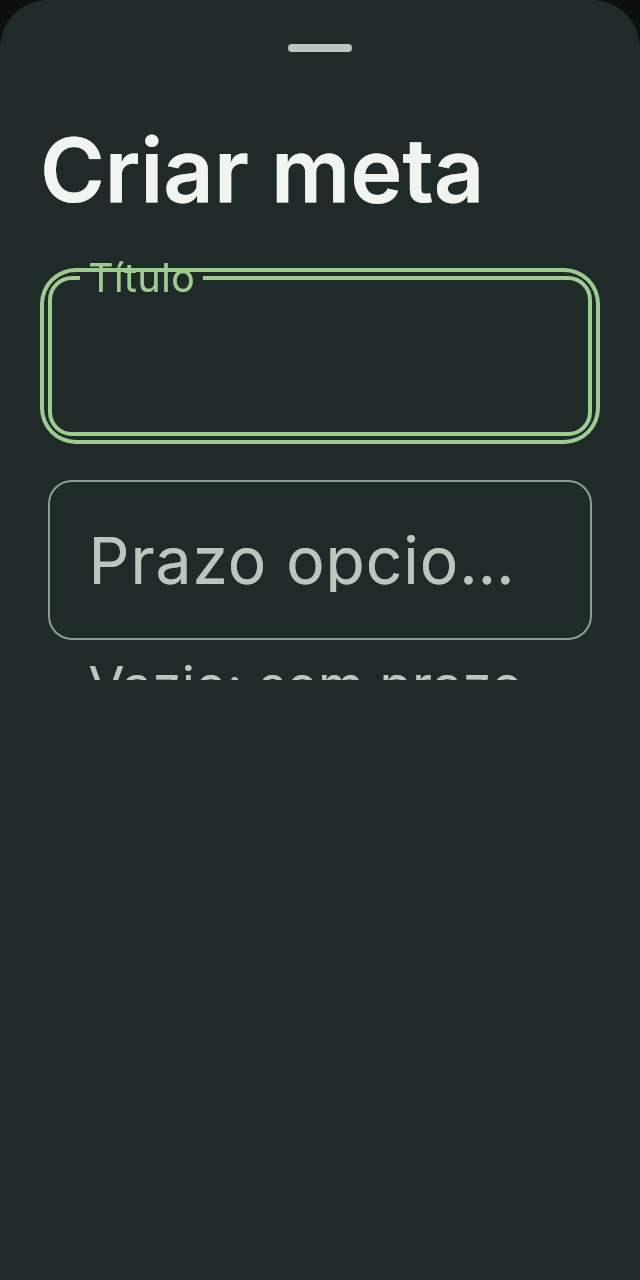
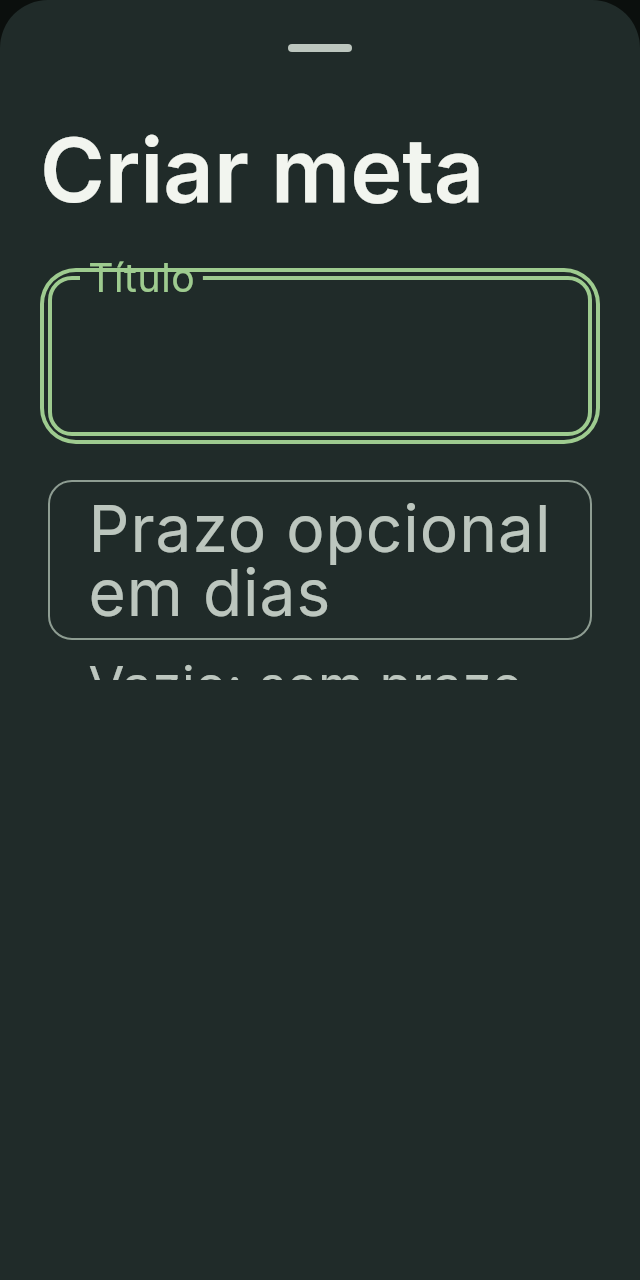
fix: manter rótulos completos de metas com texto a 200%

Changed region(s): [[0.125, 0.375, 0.875, 0.5]]

diff --git a/lib/features/forms.dart b/lib/features/forms.dart
@@ -201,7 +201,10 @@ class _EditorState extends ConsumerState<Editor> {
         focusNode: widget.kind == 'Meta'
             ? goalFocus.putIfAbsent(key, FocusNode.new)
             : null,
-        decoration: InputDecoration(labelText: label),
+        decoration: InputDecoration(
+          labelText: widget.kind == 'Meta' ? null : label,
+          label: widget.kind == 'Meta' ? Text(label, softWrap: true) : null,
+        ),
         maxLines: lines,
         keyboardType: numeric
             ? const TextInputType.numberWithOptions(decimal: true)
@@ -257,7 +260,7 @@ class _EditorState extends ConsumerState<Editor> {
             focusNode: goalFocus.putIfAbsent('deadline_days', FocusNode.new),
             keyboardType: TextInputType.number,
             decoration: const InputDecoration(
-              labelText: 'Prazo opcional em dias',
+              label: Text('Prazo opcional em dias', softWrap: true),
               helperText: 'Vazio: sem prazo. 1 dia significa amanhã.',
               helperMaxLines: 4,
             ),

diff --git a/test/phase4c3b_goals_test.dart b/test/phase4c3b_goals_test.dart
@@ -1,6 +1,7 @@
 import 'dart:io';
 import 'package:drift/native.dart';
 import 'package:flutter/material.dart';
+import 'package:flutter/rendering.dart';
 import 'package:flutter/services.dart';
 import 'package:flutter_test/flutter_test.dart';
 import 'package:go_router/go_router.dart';
@@ -99,6 +100,13 @@ void main() {
           await open(t, repo);
           expect(field('Valor pretendido'), findsNothing);
           expect(find.text('Horizonte'), findsNothing);
+          final deadlineLabel = find.descendant(
+            of: field('Prazo opcional em dias'),
+            matching: find.text('Prazo opcional em dias'),
+          );
+          final paragraph = t.renderObject<RenderParagraph>(deadlineLabel.last);
+          expect(paragraph.didExceedMaxLines, isFalse);
+          expect(paragraph.overflow, isNot(TextOverflow.ellipsis));
           await t.enterText(field('Título'), 'Ler com prazer');
           await press(t, find.widgetWithText(FilledButton, 'Criar'));
           expect(await repo.all('Goals'), isEmpty);

diff --git a/lib/features/goals/presentation/goal_detail.dart b/lib/features/goals/presentation/goal_detail.dart
@@ -168,7 +168,10 @@ class _MetricEditorState extends ConsumerState<_MetricEditor> {
                   signed: true,
                 ),
                 decoration: InputDecoration(
-                  labelText: 'Resultado em ${widget.goal['unit']}',
+                  label: Text(
+                    'Resultado em ${widget.goal['unit']}',
+                    softWrap: true,
+                  ),
                   errorText: error,
                 ),
               ),
